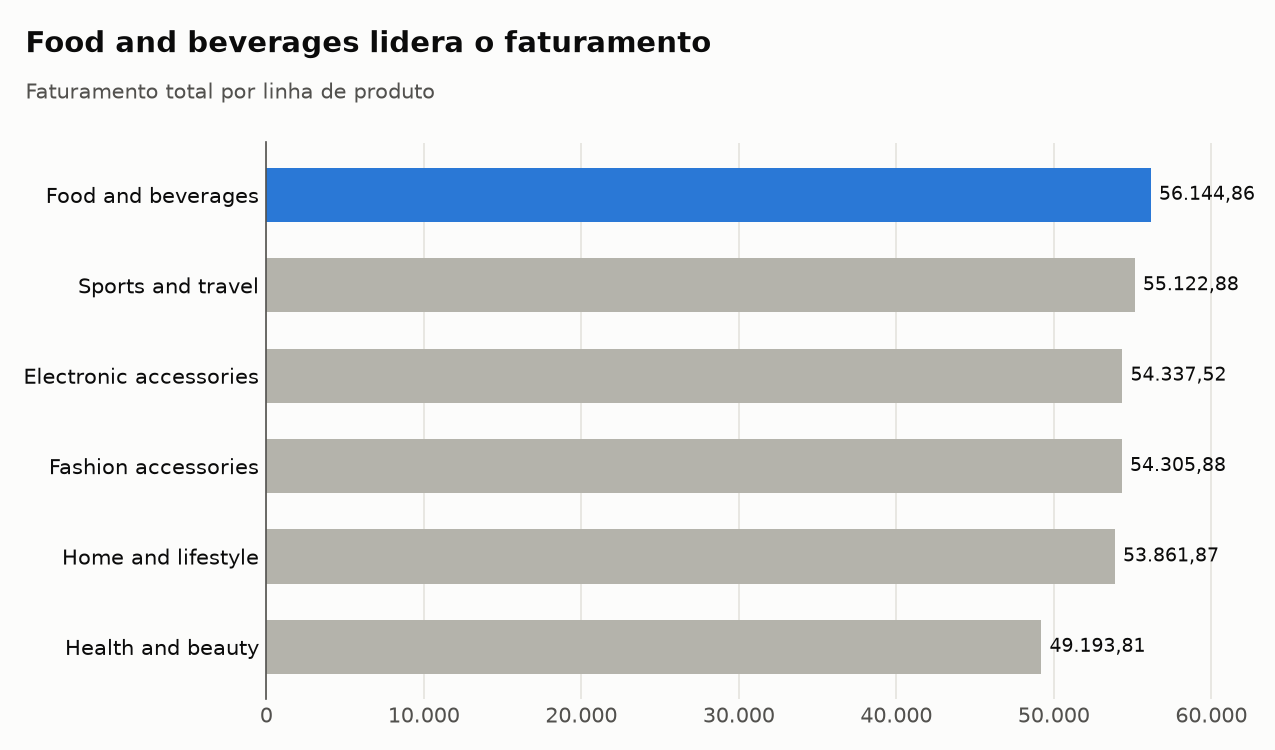
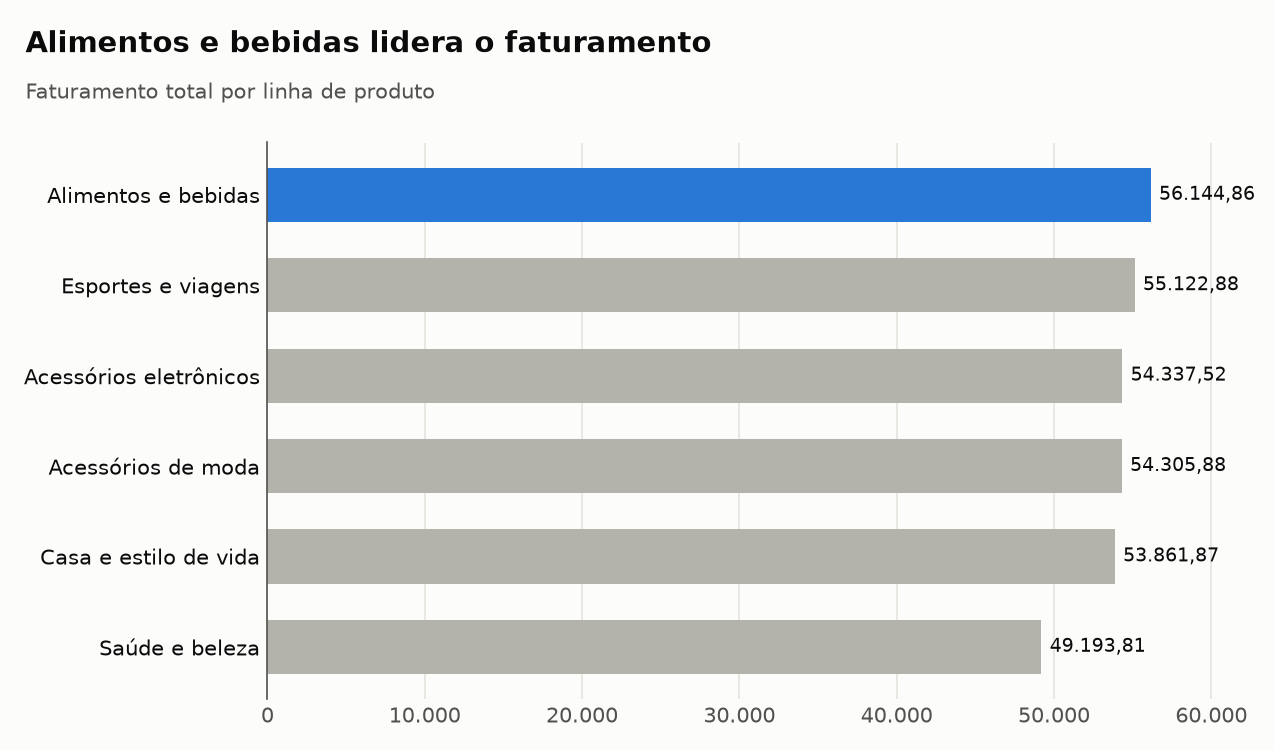
docs: padroniza todos os textos do repositório em português
- Resultados (respostas, tabelas e gráficos) exibem as categorias do
  dataset em português; os dados Raw e Tratada mantêm os valores originais.
- Relatório de inspeção com rótulos do resumo estatístico em português.
- Comentários das colunas da raw_vendas descrevem cada campo em português.
- README com as respostas traduzidas e a tabela de equivalência das
  categorias.

diff --git a/src/03_estatistica.py b/src/03_estatistica.py
@@ -30,6 +30,25 @@ COLUNAS_CATEGORICAS = [
     "filial", "cidade", "tipo_cliente", "genero", "linha_produto",
     "forma_pagamento", "dia_semana", "periodo_dia",
 ]
+# Os dados mantêm os valores originais do dataset (em inglês); nos
+# resultados (tabelas, respostas e gráficos) as categorias são traduzidas.
+TRADUCOES = {
+    "linha_produto": {
+        "Electronic accessories": "Acessórios eletrônicos",
+        "Fashion accessories": "Acessórios de moda",
+        "Food and beverages": "Alimentos e bebidas",
+        "Health and beauty": "Saúde e beleza",
+        "Home and lifestyle": "Casa e estilo de vida",
+        "Sports and travel": "Esportes e viagens",
+    },
+    "forma_pagamento": {
+        "Cash": "Dinheiro",
+        "Credit card": "Cartão de crédito",
+        "Ewallet": "Carteira digital",
+    },
+    "tipo_cliente": {"Member": "Membro", "Normal": "Normal"},
+    "genero": {"Female": "Feminino", "Male": "Masculino"},
+}
 COLUNAS_MAIOR_VENDA = [
     "filial", "cidade", "linha_produto", "preco_unitario", "quantidade",
     "imposto", "valor_total", "data_venda", "hora_venda", "forma_pagamento",
@@ -69,6 +88,17 @@ def comparar_com_segundo(serie: pd.Series, casas: int = 2) -> str:
         f"diferença de {formatar_numero(diferenca, casas)} "
         f"({formatar_numero(percentual, 1)}%)"
     )
+
+
+def traduzir_categorias(df: pd.DataFrame) -> pd.DataFrame:
+    """Troca os valores das categorias pelos nomes em português.
+
+    Valores sem tradução cadastrada são mantidos como estão.
+    """
+    df = df.copy()
+    for coluna, traducao in TRADUCOES.items():
+        df[coluna] = df[coluna].replace(traducao)
+    return df
 
 
 def nome_filial(df: pd.DataFrame, filial: str) -> str:
@@ -408,7 +438,7 @@ def p6_p7_valor_vendas(df: pd.DataFrame) -> list[dict]:
                           f" a {formatar_numero(venda['preco_unitario'])} "
                           f"na filial {nome_filial(df, venda['filial'])}, "
                           f"em {venda['data_venda']:%d/%m/%Y}, paga com "
-                          f"{venda['forma_pagamento']}",
+                          f"{venda['forma_pagamento'].lower()}",
         },
     ]
 
@@ -472,6 +502,7 @@ def main() -> None:
     df = pd.read_csv(ARQUIVO_CSV_TRATADO, parse_dates=["data_venda"])
     caminho = ARQUIVO_CSV_TRATADO.relative_to(RAIZ_PROJETO)
     print(f"{len(df)} registros lidos de {caminho}")
+    df = traduzir_categorias(df)
 
     print("\n=== Estatística descritiva ===")
     estatistica_descritiva(df)

diff --git a/src/01_leitura_dados.py b/src/01_leitura_dados.py
@@ -34,6 +34,11 @@ COLUNAS_NUMERICAS = [
     "Unit price", "Quantity", "Tax 5%", "Sales", "cogs",
     "gross margin percentage", "gross income", "Rating",
 ]
+ROTULOS_RESUMO = {
+    "count": "contagem", "mean": "media", "std": "desvio_padrao",
+    "min": "minimo", "25%": "q1_25%", "50%": "mediana", "75%": "q3_75%",
+    "max": "maximo",
+}
 PADRAO_DATA = r"^\d{1,2}/\d{1,2}/\d{4}$"  # M/D/AAAA
 PADRAO_HORA = r"^\d{1,2}:\d{2}:\d{2} (?:AM|PM)$"  # H:MM:SS AM/PM
 
@@ -83,7 +88,11 @@ def inspecionar(df_texto: pd.DataFrame) -> str:
 
     secao("1. Dimensões", f"{total} linhas x {df.shape[1]} colunas")
     secao("2. Primeiras 5 linhas (transpostas)", df.head().T.to_string())
-    secao("3. Tipos inferidos pelo Pandas", df.dtypes.to_string())
+    secao(
+        "3. Tipos inferidos pelo Pandas "
+        "(str = texto, int64 = inteiro, float64 = decimal)",
+        df.dtypes.to_string(),
+    )
     secao("4. Valores ausentes por coluna", df.isna().sum().to_string())
     secao(
         "5. Duplicidades",
@@ -97,10 +106,8 @@ def inspecionar(df_texto: pd.DataFrame) -> str:
             for coluna in COLUNAS_CATEGORICAS
         ),
     )
-    secao(
-        "7. Resumo das colunas numéricas",
-        df[COLUNAS_NUMERICAS].describe().T.to_string(),
-    )
+    resumo = df[COLUNAS_NUMERICAS].describe().T.rename(columns=ROTULOS_RESUMO)
+    secao("7. Resumo das colunas numéricas", resumo.to_string())
 
     datas_validas = df_texto["Date"].str.match(PADRAO_DATA).sum()
     horas_validas = df_texto["Time"].str.match(PADRAO_HORA).sum()

diff --git a/README.md b/README.md
@@ -33,11 +33,11 @@ e **gráficos** (Resultados).
 |---|---|---|---|
 | 1 | Qual filial apresentou o maior faturamento? | **Giza (Naypyitaw)** | 110.568,71 — 4,1% acima de Alex (106.200,37) |
 | 2 | Qual filial realizou a maior quantidade de vendas? | **Alex (Yangon)** | 340 vendas (1.859 unidades); Cairo vem em seguida com 332 |
-| 3 | Qual linha de produto apresentou o maior faturamento? | **Food and beverages** | 56.144,86 — 1,9% acima de Sports and travel |
-| 4 | Qual linha de produto recebeu a melhor avaliação média? | **Food and beverages** | 7,11 (Fashion accessories: 7,03) |
-| 5 | Qual foi a forma de pagamento mais utilizada? | **Ewallet** | 345 vendas (34,5%) — apenas 1 venda a mais que Cash (344) |
+| 3 | Qual linha de produto apresentou o maior faturamento? | **Alimentos e bebidas** | 56.144,86 — 1,9% acima de Esportes e viagens |
+| 4 | Qual linha de produto recebeu a melhor avaliação média? | **Alimentos e bebidas** | 7,11 (Acessórios de moda: 7,03) |
+| 5 | Qual foi a forma de pagamento mais utilizada? | **Carteira digital** | 345 vendas (34,5%) — apenas 1 venda a mais que Dinheiro (344) |
 | 6 | Qual foi o valor médio das vendas? | **322,97** | Mediana de 253,85: poucas vendas grandes puxam a média para cima |
-| 7 | Qual foi a maior venda registrada? | **1.042,65** | Venda 860-79-0874: 10 × Fashion accessories a 99,30, em Giza, 15/02/2019 |
+| 7 | Qual foi a maior venda registrada? | **1.042,65** | Venda 860-79-0874: 10 × Acessórios de moda a 99,30, em Giza, 15/02/2019 |
 | 8 | Em qual dia da semana ocorreu a maior quantidade de vendas? | **Sábado** | 164 vendas; terça-feira vem em seguida com 158 |
 
 **Leitura para o negócio**
@@ -45,9 +45,9 @@ e **gráficos** (Resultados).
 - **Giza vende menos vezes, mas vende mais caro.** É a filial com menos vendas (328) e,
   ainda assim, a de maior faturamento, com o maior ticket médio (337,10 contra 312,35 de
   Alex e 319,87 de Cairo). Alex tem mais movimento, mas vendas de menor valor.
-- **Food and beverages é a linha mais forte:** lidera em faturamento e em satisfação.
+- **Alimentos e bebidas é a linha mais forte:** lidera em faturamento e em satisfação.
   As diferenças entre as linhas, porém, são pequenas (avaliações entre 6,84 e 7,11).
-- **Pagamentos equilibrados:** Ewallet e Cash estão praticamente empatados; o cartão de
+- **Pagamentos equilibrados:** carteira digital e dinheiro estão praticamente empatados; o cartão de
   crédito fica um pouco atrás (31,1%).
 - **Sábado e terça-feira** concentram mais vendas; segunda-feira é o dia mais fraco (125).
   A maior parte das vendas acontece à tarde (52,8%, entre 12h e 18h).
@@ -56,6 +56,26 @@ As respostas são geradas automaticamente em
 [`resultados/respostas_negocio.md`](resultados/respostas_negocio.md) e também foram
 calculadas diretamente em SQL ([`sql/03_consultas.sql`](sql/03_consultas.sql)), com os
 mesmos resultados.
+
+> **Nomes das categorias:** os dados (camadas Raw e Tratada e as consultas SQL) mantêm os
+> valores originais do dataset, em inglês, para preservar a fidelidade à fonte. Nos
+> resultados (respostas, tabelas e gráficos), as categorias são exibidas em português,
+> conforme a tabela abaixo.
+>
+> | Coluna | Valor original | Em português |
+> |---|---|---|
+> | `linha_produto` | Electronic accessories | Acessórios eletrônicos |
+> | `linha_produto` | Fashion accessories | Acessórios de moda |
+> | `linha_produto` | Food and beverages | Alimentos e bebidas |
+> | `linha_produto` | Health and beauty | Saúde e beleza |
+> | `linha_produto` | Home and lifestyle | Casa e estilo de vida |
+> | `linha_produto` | Sports and travel | Esportes e viagens |
+> | `forma_pagamento` | Cash / Credit card / Ewallet | Dinheiro / Cartão de crédito / Carteira digital |
+> | `tipo_cliente` | Member / Normal | Membro / Normal |
+> | `genero` | Female / Male | Feminino / Masculino |
+>
+> Filiais (Alex, Cairo, Giza) e cidades (Yangon, Mandalay, Naypyitaw) são nomes próprios
+> e não foram traduzidos.
 
 ### Gráficos
 
@@ -195,7 +215,7 @@ O CSV original já está versionado em `data/raw/`. Se ele for apagado, o
 | 1 | `src/01_leitura_dados.py` | Lê o CSV no Pandas, gera o relatório de inspeção (dimensões, tipos, ausentes, duplicidades, categorias, formatos de data/hora) e carrega os registros **sem alteração** na `raw_vendas`. Depois lê a tabela de volta e confere, célula a célula, que o conteúdo é idêntico ao arquivo. |
 | 2 | `sql/03_consultas.sql` | Consultas com `SELECT`, `WHERE`, `AND`, `BETWEEN`, `IN`, `ORDER BY`, `LIMIT`, `GROUP BY`, `HAVING`, `COUNT`, `SUM`, `AVG`, `MIN`, `MAX`, subconsulta e função de janela, respondendo às 8 perguntas direto na camada Raw. Exporta os dados brutos para `data/raw/vendas_raw_exportadas.csv` (com o cabeçalho original) e o resumo por filial para `resultados/sql_resumo_filiais.csv`. |
 | 3 | `src/02_etl_vendas.py` | Padroniza colunas, limpa textos, converte tipos, trata ausentes e duplicados, confere os valores calculados, valida as restrições, cria colunas derivadas, salva o CSV tratado e carrega a `vendas_tratadas`, conferindo a quantidade de registros e a soma do faturamento. |
-| 4 | `src/03_estatistica.py` | Estatística descritiva, frequências das categorias, respostas às perguntas (CSV e Markdown), tabelas agregadas e gráficos. |
+| 4 | `src/03_estatistica.py` | Estatística descritiva, frequências das categorias, respostas às perguntas (CSV e Markdown), tabelas agregadas e gráficos, com as categorias exibidas em português. |
 
 ### Rastreabilidade
 
@@ -293,7 +313,7 @@ amplitude, coeficiente de variação e assimetria).
 - **Preço, quantidade e avaliação** são simétricos (média ≈ mediana).
 - A **margem percentual** é constante (4,76%) em todas as vendas, o que é uma
   característica do dataset.
-- Perfil das vendas: 56,5% de clientes *Member*, 57,1% do gênero feminino e 52,8% das
+- Perfil das vendas: 56,5% de clientes membros, 57,1% do gênero feminino e 52,8% das
   vendas no período da tarde ([`resultados/tabelas/frequencias_categoricas.csv`](resultados/tabelas/frequencias_categoricas.csv)).
 
 ---

diff --git a/resultados/respostas_negocio.md b/resultados/respostas_negocio.md
@@ -6,9 +6,9 @@ Gerado automaticamente por `src/03_estatistica.py` a partir de `data/processed/v
 |---|---|---|---|---|
 | 1 | Qual filial apresentou o maior faturamento? | Giza (Naypyitaw) | Faturamento de 110.568,71 | 2º lugar: Alex (106.200,37); diferença de 4.368,34 (4,1%) |
 | 2 | Qual filial realizou a maior quantidade de vendas? | Alex (Yangon) | 340 vendas (1859 unidades) | 2º lugar: Cairo (332); diferença de 8 (2,4%) |
-| 3 | Qual linha de produto apresentou o maior faturamento? | Food and beverages | Faturamento de 56.144,86 | 2º lugar: Sports and travel (55.122,88); diferença de 1.021,98 (1,9%) |
-| 4 | Qual linha de produto recebeu a melhor avaliação média? | Food and beverages | Avaliação média de 7,11 | 2º lugar: Fashion accessories (7,03); diferença de 0,08 (1,1%) |
-| 5 | Qual foi a forma de pagamento mais utilizada? | Ewallet | 345 vendas (34,5% do total) | 2º lugar: Cash (344); diferença de 1 (0,3%) |
+| 3 | Qual linha de produto apresentou o maior faturamento? | Alimentos e bebidas | Faturamento de 56.144,86 | 2º lugar: Esportes e viagens (55.122,88); diferença de 1.021,98 (1,9%) |
+| 4 | Qual linha de produto recebeu a melhor avaliação média? | Alimentos e bebidas | Avaliação média de 7,11 | 2º lugar: Acessórios de moda (7,03); diferença de 0,08 (1,1%) |
+| 5 | Qual foi a forma de pagamento mais utilizada? | Carteira digital | 345 vendas (34,5% do total) | 2º lugar: Dinheiro (344); diferença de 1 (0,3%) |
 | 6 | Qual foi o valor médio das vendas? | 322,97 | Média de 1000 vendas | Mediana de 253,85 e desvio padrão de 245,89; distribuição assimétrica à direita: poucas vendas grandes puxam a média para cima |
-| 7 | Qual foi a maior venda registrada? | 1.042,65 | Venda 860-79-0874 | 10 x Fashion accessories a 99,30 na filial Giza (Naypyitaw), em 15/02/2019, paga com Credit card |
+| 7 | Qual foi a maior venda registrada? | 1.042,65 | Venda 860-79-0874 | 10 x Acessórios de moda a 99,30 na filial Giza (Naypyitaw), em 15/02/2019, paga com cartão de crédito |
 | 8 | Em qual dia da semana ocorreu a maior quantidade de vendas? | Sábado | 164 vendas | 2º lugar: Terça-feira (158); diferença de 6 (3,8%) |
